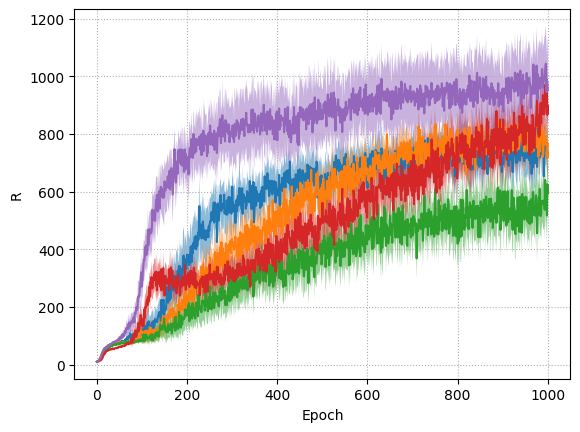
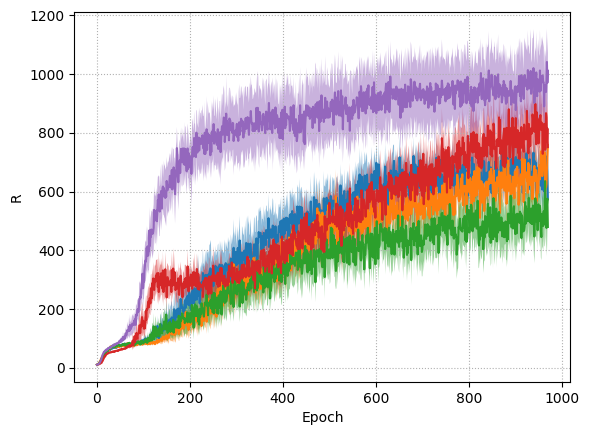
fixed init noise param

diff --git a/plot_r.py b/plot_r.py
@@ -101,7 +101,7 @@ def load_data_baselines(res_folder, env, alg_names, nb_runs, nb_epochs, entropy=
 
     for alg_name in alg_names:
         if add_prop_id:
-            subfolder = 'alg_name_'+alg_name
+            subfolder = 'alg_name_' + alg_name
         else:
             subfolder = alg_name
 
@@ -155,10 +155,11 @@ if __name__ == '__main__':
     # envs = ['HalfCheetahBulletEnv-v0']
     temps = [1., 1., .33, .33]
     # n_clusterss = [10, 20, 40]
-    n_clusterss = [40]
-    nb_epochs = 1000
+    n_clusterss = [10]
+    nb_epochs = 970
     # alg_labels = ['Metric-10', 'Metric-20', 'Metric-40', 'PPO', 'TRPO (MLP)', 'TRPO (Linear)']
     alg_labels = ['Metric-10', 'PPO-DiffMetric10', 'TRPO-DiffMetric10', 'PPO', 'TRPO (MLP)']
+    # alg_labels = ['Metric-10', 'PPO-Noise0.1', 'PPO-Noise1.', 'PPO', 'TRPO (MLP)']
     # alg_labels = ['Metric-10', 'PPO-DiffMetric10', 'PPO', 'TRPO (MLP)']
 
     res_folder = './Results/'
@@ -167,6 +168,7 @@ if __name__ == '__main__':
     # diffproto_folder = os.path.join(res_folder, 'diffproto')
     # diffproto_folder = os.path.join(res_folder, 'diffproto_temp')
     diffproto_folder = os.path.join(res_folder, 'diffentrop')
+    # diffproto_folder = os.path.join(res_folder, 'diffnoise')
 
     nb_runs = 25
     clus_sels = ['covr_exp']
@@ -177,7 +179,9 @@ if __name__ == '__main__':
     baselines_mushroom_algs = ['PPO', 'TRPO']
     diffproto_algs = ['PPO', 'TRPO']
     # diffproto_algs = ['PPO']
+
     diffproto_algs = [dpalg + '/nb_centers_' + str(n_clusterss[0]) for dpalg in diffproto_algs]
+    # diffproto_algs = [dpalg + '/init_cluster_noise_' + str(noise) for dpalg in diffproto_algs for noise in [0.1, 1.]]
 
     count = 0
     for temp, env in zip(temps, envs):

diff --git a/metric_rl/policies.py b/metric_rl/policies.py
@@ -21,7 +21,7 @@ class Grad1Abs(torch.autograd.Function):
 
 
 class MetricRegressor(nn.Module):
-    def __init__(self, input_shape, output_shape, n_clusters, std_0, temp=1., w_default=1., learnable_centers=False, init_noise=1e-2, **kwargs):
+    def __init__(self, input_shape, output_shape, n_clusters, std_0, temp=1., w_default=1., learnable_centers=False, init_cluster_noise=1e-2, **kwargs):
         super().__init__()
 
         s_dim = input_shape[0]
@@ -42,14 +42,14 @@ class MetricRegressor(nn.Module):
         self._cluster_count = 0
         self.w_default = w_default
         self.e_lb = None
-        self._init_noise = init_noise
+        self._init_cluster_noise = init_cluster_noise
 
     def forward(self, s):
         if self._cluster_count < self._n_clusters:
             if self.centers.requires_grad:
                 for k in range(self._n_clusters):
-                    print(self._init_noise)
-                    self.centers.data[k] = s + torch.randn_like(s) * self._init_noise
+                    print(self._init_cluster_noise)
+                    self.centers.data[k] = s + torch.randn_like(s) * self._init_cluster_noise
                 self._cluster_count = self._n_clusters
             else:
                 self.centers[self._cluster_count] = s

diff --git a/visualize_state.py b/visualize_state.py
@@ -175,6 +175,11 @@ if __name__ == '__main__':
             px = get_image(env, scaling, distance, pitch)
             viewer.display(px)
             w = policy_torch.get_membership(torch.tensor([obs])).detach().numpy().squeeze()
+
+            # mu, chol_sigma = policy_torch(torch.tensor([obs]))
+            # act = torch.distributions.MultivariateNormal(mu, scale_tril=chol_sigma).sample()
+            # obs, _, _, _ = env.step(act.detach().numpy().squeeze())
+
             env.step(policy_torch.means[n].detach().numpy())
             # print('m3', w[3])
             # if w[n] > .2 or iterdisp < 1:
